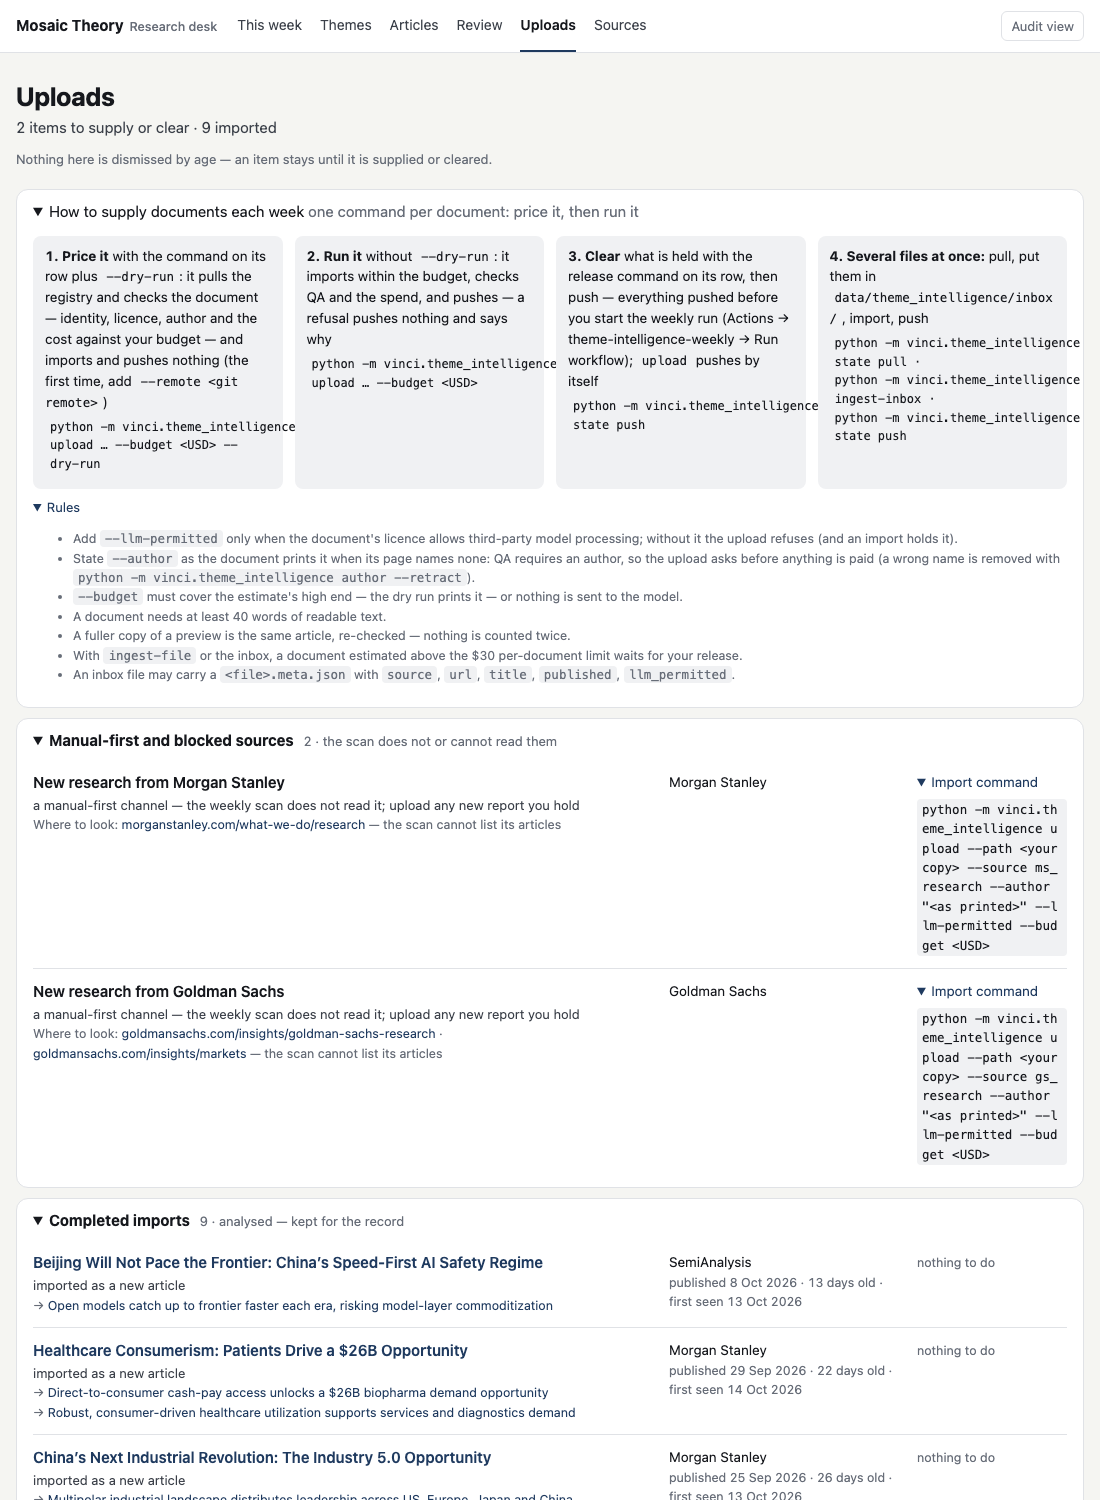
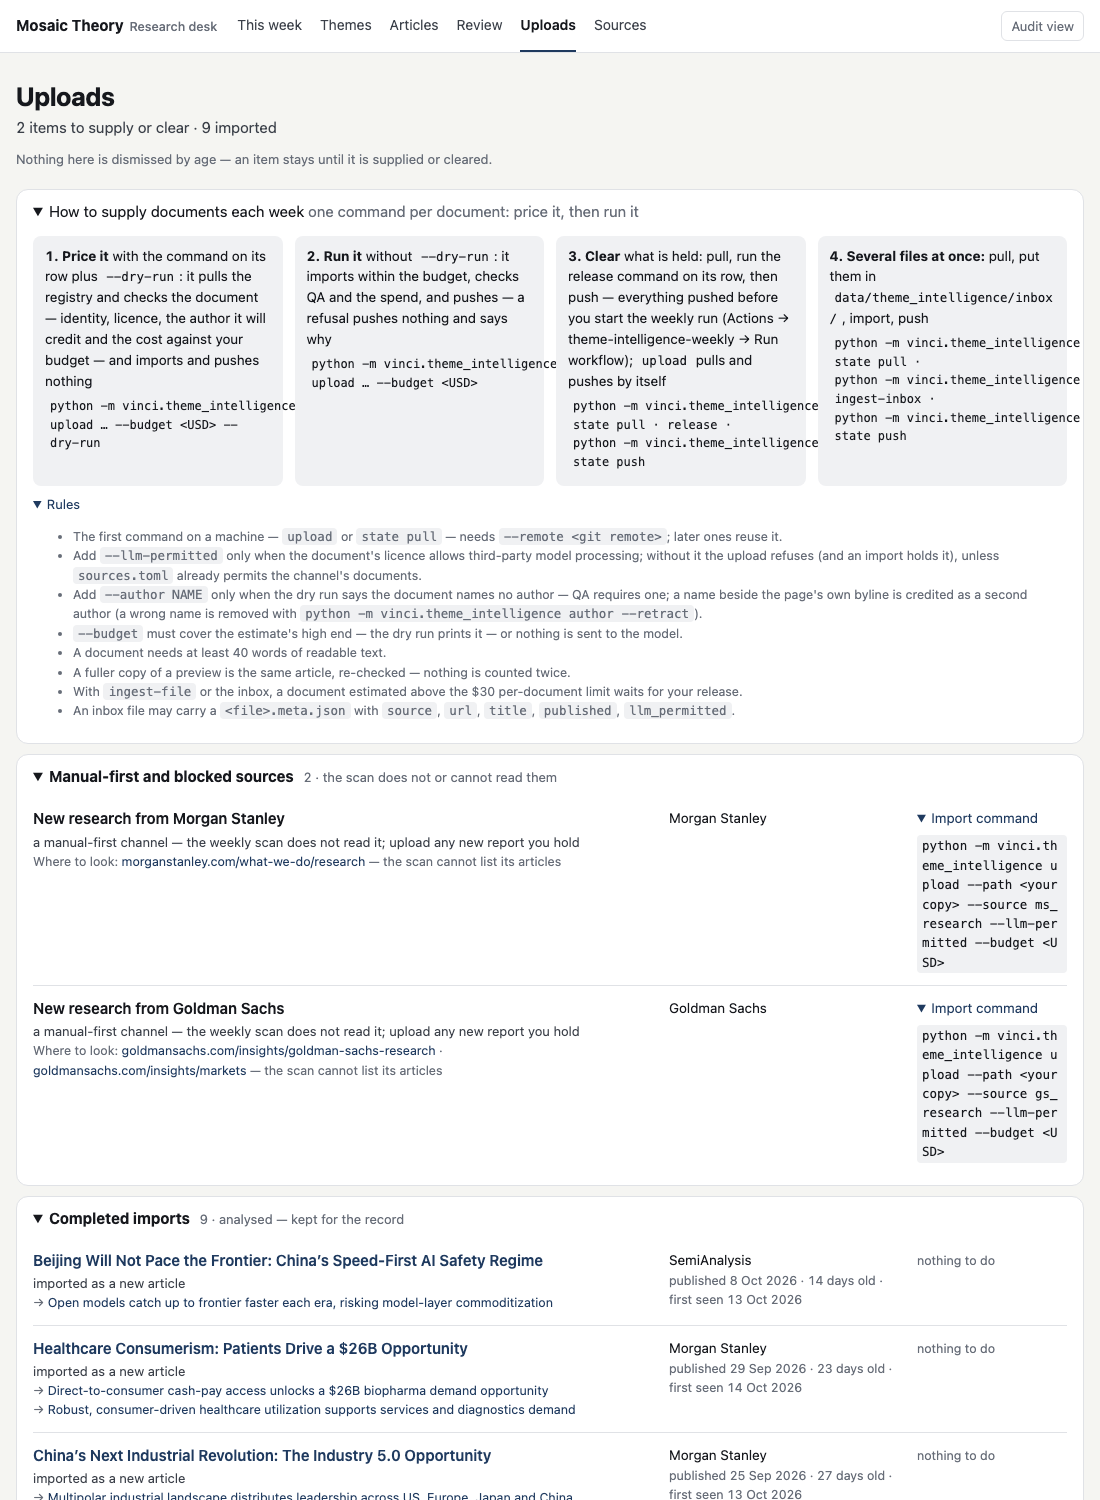
Review of #775: no row states an author, the dry run names who is credited, a row's URL is shell-quoted, a release pulls first
- rows drop --author "<as printed>": quoted, a forgotten placeholder passed the shell and
  was credited; on a signed report a stated name became a second author. The CLI refuses a
  whole-name <…> placeholder (--author, --name, --retract; exit 2)
- upload's preflight prints "author: NAME (stated by you | from the document | kept from A-…)"
- _upload_cmd (was _ingest_cmd) shell-quotes the URL (a # or & cut the command short)
- the how-to: release = pull · release · push; --remote is a rule for the first command on a
  machine; the licence rule names the sources.toml exception
- record: the originals' current location (the pilot archive was deleted)

Pins: 7 mutants, all killed (the URL pin asks /bin/sh). Real registry cd0f4a08 published
with this branch: both rows read upload … --llm-permitted --budget <USD>. Suite 6,222 passed.

diff --git a/vinci/theme_intelligence/desk.py b/vinci/theme_intelligence/desk.py
@@ -26,6 +26,7 @@ one click away — never silently cut.
 from __future__ import annotations
 
 import re
+import shlex
 from collections import Counter, defaultdict
 from collections.abc import Iterable
 from dataclasses import dataclass, field, replace
@@ -1107,13 +1108,16 @@ class UploadItem:
     where: list[str] = field(default_factory=list)
 
 
-def _ingest_cmd(sid: str, url: str = "") -> str:
+def _upload_cmd(sid: str, url: str = "") -> str:
     """A row's import: the ONE-STEP upload (upload.py, #769) — pull, the checks before anything is
     paid (identity, licence, author, cost against the budget), import, QA, the spend reconciled,
-    push. Until 2026-10-22 the rows taught `ingest-file`, which pays and pushes nothing."""
+    push. Until 2026-10-22 the rows taught `ingest-file`, which pays and pushes nothing.
+    No `--author` (review of #775): a signed report needs none, and a name stated beside its
+    byline is credited as a second author — the dry run asks for one when the page names none.
+    The URL is shell-quoted: a `#` or `&` in it would cut the command short."""
     return (f"{CLI} upload --path <your copy> --source {sid}"
-            + (f" --url {url}" if url else "")
-            + ' --author "<as printed>" --llm-permitted --budget <USD>')
+            + (f" --url {shlex.quote(url)}" if url else "")
+            + " --llm-permitted --budget <USD>")
 
 
 def upload_items(reg: _Registry, health: dict[str, Any],
@@ -1155,7 +1159,7 @@ def upload_items(reg: _Registry, health: dict[str, Any],
             kind="full_report", title=clean_title(a.title, a.publisher) or "title not recorded",
             publisher=a.publisher, source_id=a.source_id, published=_todate(a.published_at),
             first_seen=_todate(a.first_seen_at), why=why,
-            command=_ingest_cmd(a.source_id, a.canonical_url), url=a.canonical_url,
+            command=_upload_cmd(a.source_id, a.canonical_url), url=a.canonical_url,
             audit=a.article_id + (f" · {clip(upload_issue[a.article_id], 200, 'Review')}"
                                   if a.article_id in upload_issue else "")))
     done_urls = {a.canonical_url for a in store.articles()
@@ -1180,7 +1184,7 @@ def upload_items(reg: _Registry, health: dict[str, Any],
             publisher=art.publisher if art else reg.publisher(sid),
             source_id=sid, published=_todate(art.published_at) if art else None,
             first_seen=seen, why=_CHECKPOINT_WHY[_CHECKPOINT[status]],
-            command=_ingest_cmd(sid or "<source>", url), url=url,
+            command=_upload_cmd(sid or "<source>", url), url=url,
             audit=f"scan outcome {status}" + (f" · {cid}" if cid else "")))
     from vinci.theme_intelligence.health import asks_only_for_previews, split_affected
 
@@ -1221,7 +1225,7 @@ def upload_items(reg: _Registry, health: dict[str, Any],
                  "report you hold" if manual_first else
                  f"automated access is {str(row.get('status', 'UNKNOWN')).lower()} — upload "
                  f"the reports you hold, starting with the articles listed"),
-            command=_ingest_cmd(sid), detail=rest, links=links,
+            command=_upload_cmd(sid), detail=rest, links=links,
             where=[src.entry_url, *src.research_pages] if not links else [],
             audit=f"health {row.get('status', 'UNKNOWN')}"
             + (f" · {clip(row.get('reason', ''), 160, 'Sources')}" if row else "")))
@@ -2236,27 +2240,32 @@ class Desk:
                 f'<span class="muted">one command per document: price it, then run it</span>'
                 f'</summary><ol class="steps4">'
                 f'<li><b>1. Price it</b> with the command on its row plus <code>--dry-run</code>: '
-                f'it pulls the registry and checks the document — identity, licence, author and '
-                f'the cost against your budget — and imports and pushes nothing (the first time, '
-                f'add <code>--remote &lt;git remote&gt;</code>)'
+                f'it pulls the registry and checks the document — identity, licence, the author '
+                f'it will credit and the cost against your budget — and imports and pushes '
+                f'nothing'
                 f'<code class="cmd">{cli} upload … --budget &lt;USD&gt; --dry-run</code></li>'
                 f'<li><b>2. Run it</b> without <code>--dry-run</code>: it imports within the '
                 f'budget, checks QA and the spend, and pushes — a refusal pushes nothing and '
                 f'says why<code class="cmd">{cli} upload … --budget &lt;USD&gt;</code></li>'
-                f'<li><b>3. Clear</b> what is held with the release command on its row, then '
-                f'push — everything pushed before you start the weekly run (Actions → '
-                f'theme-intelligence-weekly → Run workflow); <code>upload</code> pushes by '
-                f'itself<code class="cmd">{cli} state push</code></li>'
+                f'<li><b>3. Clear</b> what is held: pull, run the release command on its row, '
+                f'then push — everything pushed before you start the weekly run (Actions → '
+                f'theme-intelligence-weekly → Run workflow); <code>upload</code> pulls and '
+                f'pushes by itself<code class="cmd">{cli} state pull · release · {cli} state '
+                f'push</code></li>'
                 f'<li><b>4. Several files at once:</b> pull, put them in '
                 f'<code>data/theme_intelligence/inbox/</code>, import, push'
                 f'<code class="cmd">{cli} state pull · {cli} ingest-inbox · {cli} state push'
                 f'</code></li></ol><details class="fold"><summary>Rules</summary>'
-                f'<ul class="small"><li>Add <code>--llm-permitted</code> only when the '
+                f'<ul class="small"><li>The first command on a machine — <code>upload</code> or '
+                f'<code>state pull</code> — needs <code>--remote &lt;git remote&gt;</code>; '
+                f'later ones reuse it.</li><li>Add <code>--llm-permitted</code> only when the '
                 f'document\'s licence allows third-party model processing; without it the '
-                f'upload refuses (and an import holds it).</li><li>State '
-                f'<code>--author</code> as the document prints it when its page names none: '
-                f'QA requires an author, so the upload asks before anything is paid (a wrong '
-                f'name is removed with <code>{cli} author --retract</code>).</li>'
+                f'upload refuses (and an import holds it), unless <code>sources.toml</code> '
+                f'already permits the channel\'s documents.</li><li>Add <code>--author '
+                f'NAME</code> only when the dry run says the document names no author — QA '
+                f'requires one; a name beside the page\'s own byline is credited as a second '
+                f'author (a wrong name is removed with <code>{cli} author --retract</code>).'
+                f'</li>'
                 f'<li><code>--budget</code> must cover the estimate\'s high end — the dry run '
                 f'prints it — or nothing is sent to the model.</li><li>A document needs at least '
                 f'40 words of readable text.</li><li>A fuller copy of a preview is the same '

diff --git a/tests/test_theme_intelligence_desk.py b/tests/test_theme_intelligence_desk.py
@@ -18,6 +18,7 @@ from __future__ import annotations
 import dataclasses
 import json
 import re
+import subprocess
 from collections import Counter
 from datetime import UTC, date, datetime, timedelta
 from pathlib import Path
@@ -827,14 +828,33 @@ def test_uploads_teach_the_one_step_upload(w12: tuple[Pipeline, Path, dict[str, 
     steps = [li.get_text(" ", strip=True) for li in howto.select("ol.steps4 > li")]
     assert len(steps) == 4 and steps[0].startswith("1. Price it") and "--dry-run" in steps[0]
     assert steps[1].startswith("2. Run it") and "upload" in steps[1]
+    assert "state pull" in steps[2] and "state push" in steps[2]  # a release starts from a pull
     rules = howto.select_one("details.fold").get_text(" ", strip=True)
-    assert "--author" in rules and "--budget" in rules
+    assert "--author" in rules and "--budget" in rules and "--remote" in rules
     rows = [c.get_text(" ", strip=True) for c in up.select("li.ui .uiact")]
     imports = [r for r in rows if " upload " in f" {r} " or "ingest-file --path" in r]
     assert imports, "the fixture's desk asks for at least one document"
     assert all("upload --path <your copy> --source" in r and "--budget <USD>" in r
-               and '--author "<as printed>"' in r and "--llm-permitted" in r for r in imports)
+               and "--llm-permitted" in r for r in imports)
     assert not any("ingest-file --path" in r for r in rows)
+    # review of #775: no row states an author — a quoted "<…>" passed the shell and was credited,
+    # and a name beside a signed report's byline becomes a second author
+    assert not any("--author" in r for r in imports)
+
+
+def test_an_upload_rows_url_is_shell_quoted() -> None:
+    """Review of #775: the row's URL went into the command bare, so a `#` commented out the
+    flags after it (`--budget` among them) and an `&` split the command in two. The command a
+    shell reads back must carry the URL whole and every flag after it."""
+    url = "https://example.com/insights/report?id=7&lang=en#section-2"
+    cmd = (desk._upload_cmd("ms_research", url).replace("<your copy>", "x.pdf")
+           .replace("<USD>", "5").replace(desk.CLI, "printf '%s\\n'", 1))  # what a shell reads
+    argv = subprocess.run(["/bin/sh", "-c", cmd], capture_output=True, text=True,
+                          check=False).stdout.splitlines()
+    assert argv[argv.index("--url") + 1] == url
+    assert argv[-3:] == ["--llm-permitted", "--budget", "5"]
+    plain = desk._upload_cmd("ms_research", "https://example.com/a")
+    assert "--url https://example.com/a " in plain  # a plain URL reads as before
 
 
 # --- the reading page's tabs, and the folds of the other screens (audit 2026-10-14) -------------

diff --git a/tests/test_theme_intelligence_author_statement.py b/tests/test_theme_intelligence_author_statement.py
@@ -337,6 +337,27 @@ def test_a_name_holding_the_separator_is_refused_everywhere(
     assert exit_.value.code == 2 and "may not contain ';'" in capsys.readouterr().err
 
 
+def test_a_template_placeholder_is_never_an_author(
+        tmp_path: Path, capsys: pytest.CaptureFixture[str]) -> None:
+    """Review of #775: the Uploads rows taught `--author "<as printed>"` — quoted, the shell
+    passes a forgotten placeholder through, and the upload credited it. Refused at the CLI's
+    `--author` / `--name` / `--retract` (exit 2); a real name with angle brackets inside passes."""
+    pipe, aid, _run = _authorless(tmp_path)
+    data = str(pipe.paths.root)
+    pipe.store.close()
+    for argv in (["author", "--article", aid, "--name", "<as printed>", "--by", WHO,
+                  "--reason", WHY],
+                 ["author", "--article", aid, "--retract", " <name> ", "--by", WHO,
+                  "--reason", WHY],
+                 ["upload", "--path", "x.pdf", "--source", "ms_research", "--budget", "1",
+                  "--author", "<as printed>"]):
+        with pytest.raises(SystemExit) as exit_:
+            main(["--data-dir", data, *argv])
+        assert exit_.value.code == 2 and "is a placeholder" in capsys.readouterr().err
+    assert main(["--data-dir", data, "author", "--article", aid, "--name", "Morgan <MS> Stanley",
+                 "--by", WHO, "--reason", WHY]) == 0  # NEGATIVE: not a whole-name placeholder
+
+
 def test_an_author_without_a_run_link_serializes_as_before() -> None:
     """Every stored author predating `stated_in` — page, text and upload credits — keeps its
     payload byte for byte; the field is written only when set."""

diff --git a/vinci/theme_intelligence/upload.py b/vinci/theme_intelligence/upload.py
@@ -60,7 +60,14 @@ from vinci.theme_intelligence.ingest import (
 )
 from vinci.theme_intelligence.qa import run_qa
 from vinci.theme_intelligence.report import write_run_outputs
-from vinci.theme_intelligence.schemas import Article, FieldStatus, RetrievalState, RunStatus
+from vinci.theme_intelligence.schemas import (
+    OPERATOR_STATED,
+    Article,
+    Author,
+    FieldStatus,
+    RetrievalState,
+    RunStatus,
+)
 from vinci.theme_intelligence.store import Store
 
 if TYPE_CHECKING:
@@ -160,6 +167,16 @@ def preflight(pipe: Pipeline, path: Path, declared: Declared, *, budget: float,
                                        f"QA, so the upload would pay and then refuse to push. "
                                        f"State the author(s) from the document: --author NAME "
                                        f"(repeatable)")
+    # who the import will credit, and from where — a dry run shows a stated name, and one stated
+    # beside the page's own byline, before anything is paid (review of #775)
+    kept = held.authors if held and held.authors else ()
+
+    def whence(a: Author) -> str:
+        return (f"kept from {held.article_id}" if held and kept else "stated by you"
+                if a.source_field.startswith(OPERATOR_STATED) else "from the document")
+
+    lines.append("author: " + ("; ".join(f"{a.name} ({whence(a)})"
+                                         for a in kept or read.doc.authors) or "none named"))
     ok, why = llm_authorised(pipe, declared)
     if not ok:  # said in the upload's own words: nothing is HELD here — nothing is written
         src = pipe.sources.get(declared.source_id)

diff --git a/tests/test_theme_intelligence_upload.py b/tests/test_theme_intelligence_upload.py
@@ -227,6 +227,8 @@ def test_a_dry_run_stops_after_the_preflight(tmp_path: Path) -> None:
     res = _upload(tmp_path, remote, model, dry_run=True)
     assert res.outcome == "dry run" and res.lines[-1].startswith("dry run — nothing imported")
     assert any(x.strip().startswith("cost: estimated $") for x in res.lines)
+    # review of #775: the dry run names who the import will credit, and from where
+    assert "author: Synthetic Analyst (stated by you)" in [x.strip() for x in res.lines]
     assert model.calls == [] and _head(remote) == head and _laptop(tmp_path).documents() == []
 
 
@@ -408,6 +410,8 @@ def test_a_new_version_of_an_article_whose_authors_are_held_needs_none_stated(
                   same_as=art.article_id, dry_run=True)
     assert res.outcome == "dry run"
     assert any(f"a version of {art.article_id}" in x for x in res.lines)
+    assert [x.strip() for x in res.lines if x.strip().startswith("author:")] == [
+        "author: " + "; ".join(f"{a.name} (kept from {art.article_id})" for a in art.authors)]
     with pytest.raises(UploadError, match="names no author"):  # a NEW article still needs one
         _upload(tmp_path, remote, None, path=fuller, declared=unauthored, as_new=True,
                 dry_run=True)

diff --git a/vinci/theme_intelligence/__main__.py b/vinci/theme_intelligence/__main__.py
@@ -112,6 +112,9 @@ def _author_name(s: str) -> str:
     "; "-joined, so a name holding ';' would come back as two (review of #771)."""
     if ";" in s:
         raise argparse.ArgumentTypeError(f"an author's name may not contain ';': {s!r}")
+    if s.strip().startswith("<") and s.strip().endswith(">"):  # review of #775: quoted, a
+        # template's placeholder passes the shell and would be credited as the author
+        raise argparse.ArgumentTypeError(f"{s!r} is a placeholder — state the author's name")
     return s
 
 

diff --git a/docs/records/2026-10-22-theme-intelligence-uploads-one-step.md b/docs/records/2026-10-22-theme-intelligence-uploads-one-step.md
@@ -12,18 +12,31 @@ superseded-by:
 **WHAT.** Items 2, 3 and 4 of the open list (operator, 2026-10-22: "yes, start 2, 3 and 4").
 
 **Item 4 — the Uploads screen (this PR, a render change).**
-- Each row's import command is now `upload --path <your copy> --source … --author "<as printed>"
-  --llm-permitted --budget <USD>`. Until now it was `ingest-file`, which neither checks before
-  paying nor pushes.
+- Each row's import command is now `upload --path <your copy> --source … --llm-permitted
+  --budget <USD>`. Until now it was `ingest-file`, which neither checks before paying nor pushes.
 - The weekly how-to now reads:
-  1. **price it** with `--dry-run` — it pulls and checks identity, licence, author and cost
-     against the budget, and imports nothing;
+  1. **price it** with `--dry-run` — it pulls and checks identity, licence, the author it will
+     credit and the cost against the budget, and imports nothing;
   2. **run it**;
-  3. **clear** what is held, then push;
+  3. **clear** what is held: pull, release, push;
   4. **several files at once** through the inbox.
-- The rules add the author (QA requires one; a wrong name is retracted) and the budget (it must
-  cover the estimate's high end).
+- The rules add `--remote` the first time on a machine, the author (only when the dry run says
+  the page names none; a wrong name is retracted) and the budget (it must cover the estimate's
+  high end).
 - Releases of held documents keep `ingest-file --release`, since `upload` releases nothing.
+- **The code review of this PR** (`/code-review high`, 9 findings; operator: "apply fixes, then
+  merge"):
+  - **No row states an author.** The rows had taught `--author "<as printed>"`. Quoted, a
+    forgotten placeholder passed the shell and was credited as the article's author; and on a
+    signed report a stated name is credited beside the byline as a second author. The CLI now
+    refuses a whole-name `<…>` placeholder (`--author`, `--name`, `--retract`; exit 2).
+  - **The dry run names who will be credited** and from where: "author: NAME (stated by you |
+    from the document | kept from A-…)".
+  - **A row's URL is shell-quoted**: a `#` commented out the flags after it, and an `&` split
+    the command.
+  - **The release step pulls first**; `--remote` is a rule for the first command on any machine,
+    not only `upload`; the licence rule names the `sources.toml` exception.
+  - The helper is `_upload_cmd` (it was `_ingest_cmd`).
 
 **Items 2 and 3 — proposals, not applied.**
 - The 58 open lines on the registry of record (0cdebc0f) are 47 dismissible review warnings and
@@ -35,8 +48,10 @@ superseded-by:
 - **The rule.** Dismiss when the review calls the line supported, the wording adds no fact, or
   the source says it (quoted). Correct when the line adds a fact the evidence does not carry: a
   figure, a named entity, a date, a mechanism, an attribution, or a forecast stated as realised.
-- **Twelve warnings the source settles.** Checked against the original documents (the retired
-  pilot's archive, read only), each says what the review thought unsupported. Example: in-vivo
+- **Twelve warnings the source settles.** Checked against the original documents (then the retired
+  pilot's archive, read only; the operator deleted it the same day, and the originals now live
+  only in the main checkout's git-ignored `data/theme_intelligence/documents/<sha256>.pdf`,
+  hash-verified against the registry), each says what the review thought unsupported. Example: in-vivo
   editing "could enable access to organs that cannot easily be removed, including the brain,
   heart, eyes and liver".
 - **Where they live.** A decision page in the git-ignored `data/theme_intelligence/triage/`
@@ -55,7 +70,9 @@ thesis's open review findings as the new version's own.
 - **Item 4:**
   - **The real registry** (0cdebc0f), published with this branch into scratch: the 2 rows asking
     for documents (Morgan Stanley, Goldman Sachs) give the `upload` command; 0 rows teach
-    `ingest-file --path`.
+    `ingest-file --path`. Re-run after the review fixes on cd0f4a08: both rows read `upload
+    --path <your copy> --source ms_research|gs_research --llm-permitted --budget <USD>`, with no
+    `--author`; the previews below are re-taken from that run.
   - **Preview** in `docs/theme_intelligence/uploads-one-step-2026-10-22/`: `uploads-screen.png`
     (as it opens) and `uploads-print.png` (every fold open).
   - **Pin:** `test_uploads_teach_the_one_step_upload`, end to end on the rendered desk. It checks
@@ -63,6 +80,14 @@ thesis's open review findings as the new version's own.
     row.
   - **Mutation:** 3 mutants, 2 killed. The survivor removes only the prose mention of
     `--dry-run`; step 1's command still carries it, which is what the pin checks.
+  - **The review fixes:** pins in `test_theme_intelligence_desk.py` (no row states an author;
+    the release step pulls; the `--remote` rule; a URL holding `?`, `&` and `#` read back whole
+    by `/bin/sh` with every flag after it), `test_theme_intelligence_author_statement.py` (a
+    placeholder refused at `author --name`, `--retract` and `upload --author`; a name with
+    brackets inside passes) and `test_theme_intelligence_upload.py` (the dry run's author line,
+    stated and kept). **Mutation:** 7 mutants, all killed — the first URL pin read the command
+    back with `shlex.split`, which treats neither `#` nor `&` as a shell does, and let the
+    unquoted URL survive; it now asks a real shell.
 - **Items 2 and 3, on one scratch copy:**
   - All 35 corrections in one $0 run change 14 theses' cards and **no research action**; QA 21/21.
   - The 22 dismissals then apply with the post-correction keys.
